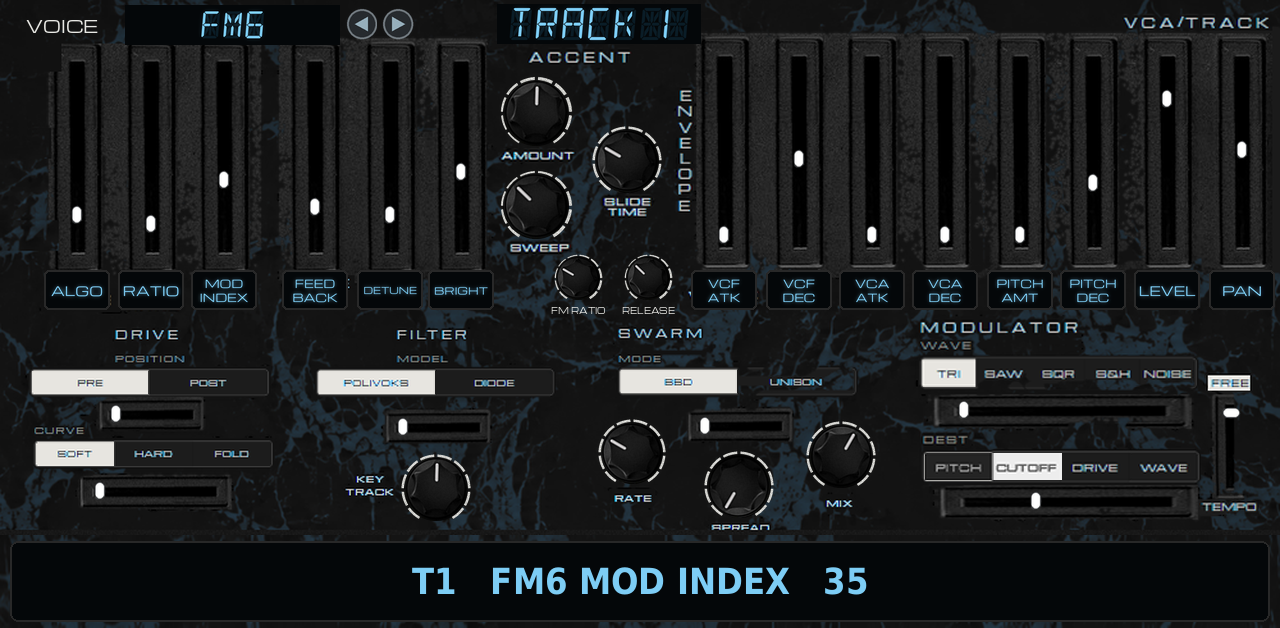
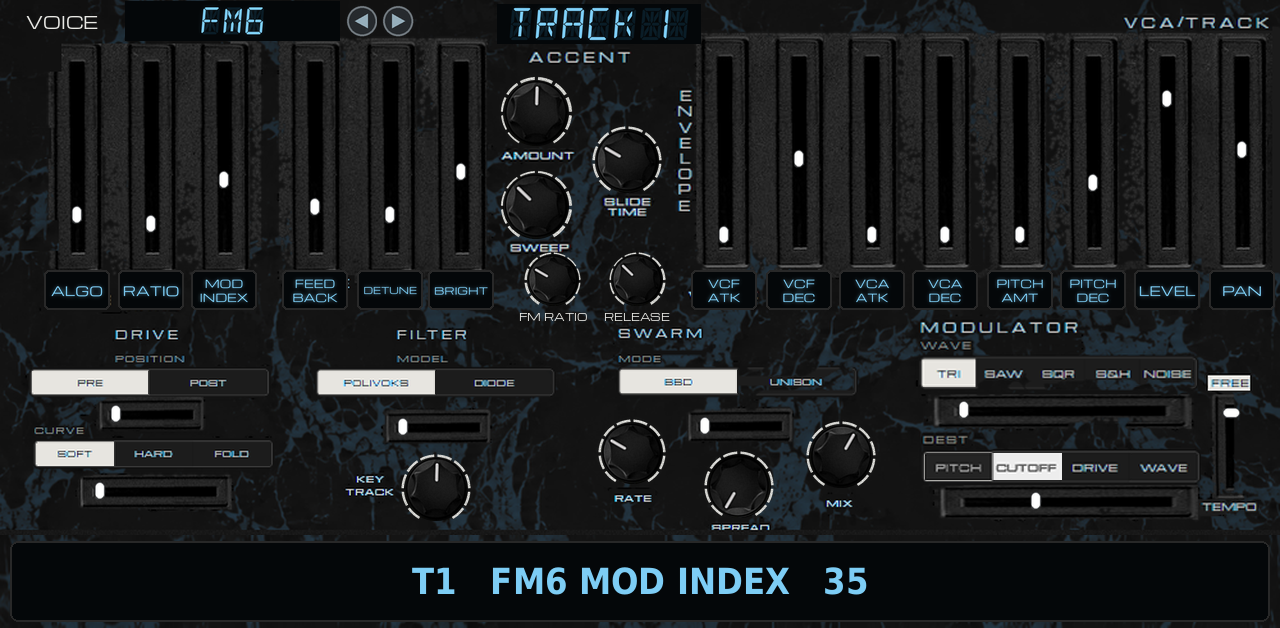
MODULES: FM RATIO and RELEASE lower, centred and bigger; the VOICE selector a notch up
Claude-Session: https://claude.ai/code/session_01L18991iFXgJHwwetnfJGLs

diff --git a/tools/panel.py b/tools/panel.py
@@ -71,7 +71,7 @@ KNOBS = [
     # LXRXXL's randomizer amounts (their own knobs; the scale is printed around them: MOD_ART)
     (0, "srnd_amt", 370.3, 151.3, 50, "mod_yellow", 1), (0, "rnd_amt", 637.5, 151.3, 50, "mod_green", 1),
     # MODULES: FM RATIO (FM LVL's ratio, any voice) and RELEASE (the amp envelope's), under SLIDE TIME
-    (1, "fm_ratio", 451.6, 217.2, 34, "big", 1), (1, "vca_rel", 506.3, 217.2, 34, "big", 1),
+    (1, "fm_ratio", 432.0, 218.75, 40, "big", 1), (1, "vca_rel", 497.7, 218.75, 40, "big", 1),
     (1, "acc_amt", 419, 88, 52, "big", 1), (1, "acc_sweep", 419, 161, 52, "big", 1),
     (1, "slide_time", 490, 125.5, 50, "big", 1), (1, "keytrack", 341, 382, 50, "big", 1),
     (1, "sw_rate", 494, 354, 48, "big", 1), (1, "detune", 577, 380, 50, "big", 1),
@@ -148,11 +148,11 @@ CELL_W, CELL_H = 40, 54
 DISPLAY_BOX = (420, 289, 160, 70)                       # the window repainted under them
 # the selectors shown in the display's font: a filmstrip each (turn, drag or the data wheel, both ways; a Q-Link)
 TRACK_SEL = (1, 388, 3, 160, 31)                         # MODULES: "TRACK n" (art rect)
-VOICE_SEL = (1, 98, 4, 168, 31)                          # MODULES: the VOICE selector, the voice's name (art rect)
-VOICE_LABEL = (24, 6, 76, 38)                            # page rect: its legend "VOICE"
-VOICE_KEYS = [("v_prev", 362, 24, 30), ("v_next", 398, 24, 30)]   # page: centre, size: VOICE < and VOICE >
+VOICE_SEL = (1, 98, 1, 168, 31)                          # MODULES: the VOICE selector, the voice's name (art rect)
+VOICE_LABEL = (24, 2, 76, 38)                            # page rect: its legend "VOICE"
+VOICE_KEYS = [("v_prev", 362, 21, 30), ("v_next", 398, 21, 30)]   # page: centre, size: VOICE < and VOICE >
 # MODULES: printed legends (page rect, text, px) of the controls ZYNTH adds
-MODULES_LABELS = [((546, 304, 64, 13), "FM RATIO", 8), ((616, 304, 64, 13), "RELEASE", 8)]
+MODULES_LABELS = [((518, 310, 70, 13), "FM RATIO", 10), ((602, 310, 70, 13), "RELEASE", 10)]
 # PANEL: LXRXXL's randomizers beside the panic key (page pixels): each key's picture, centre and size; the scale
 # printed round each amount knob; the legend ("?" for STEP RANDOM, the warning sign for SOUND RANDOM)
 MOD_KEYS = [("srnd", "mod_key_yellow.png", 549, 176, 40), ("rnd", "mod_key_green.png", 744, 176, 40)]

diff --git a/CHANGELOG.md b/CHANGELOG.md
@@ -2,7 +2,7 @@
 
 ## 0.1.0
 - MODULES: the envelope, LEVEL and PAN legends in ice label windows like the voice's; FM RATIO and RELEASE lower
-  and to the left. PANEL: the randomizer amount knobs with the white segmented ring of the other knobs.
+  and centred, a little bigger; the VOICE selector and its keys a notch up. PANEL: the randomizer amount knobs with the white segmented ring of the other knobs.
 - First release of LXRXXL ZYNTH, a variation of LXRXXL BAZZLINE 0.2.8 (its sequencer, panel, voice chain, delay,
   gate/duck, mixer and presets).
 - Sixteen voices, one per track (the VOICE selector on MODULES: < >, the data wheel, a Q-Link): ANALOG, TRIO, FM6,
